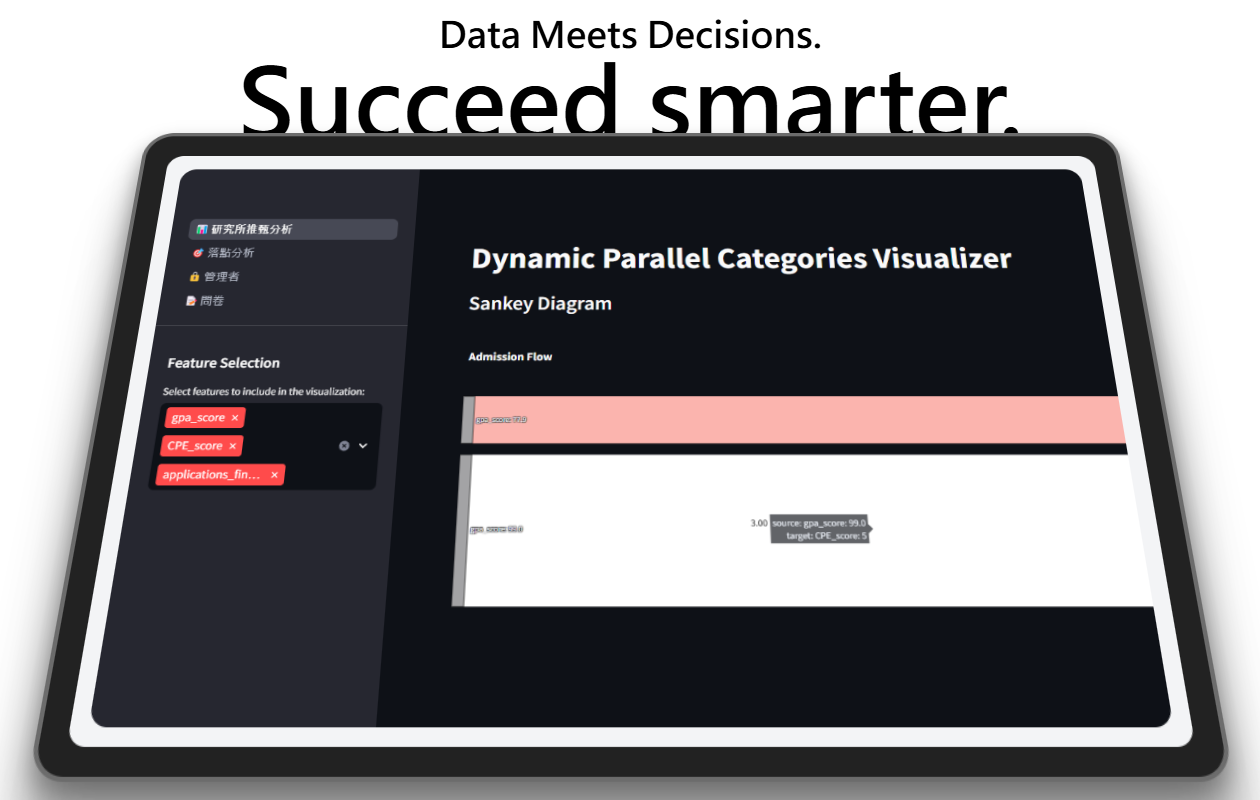
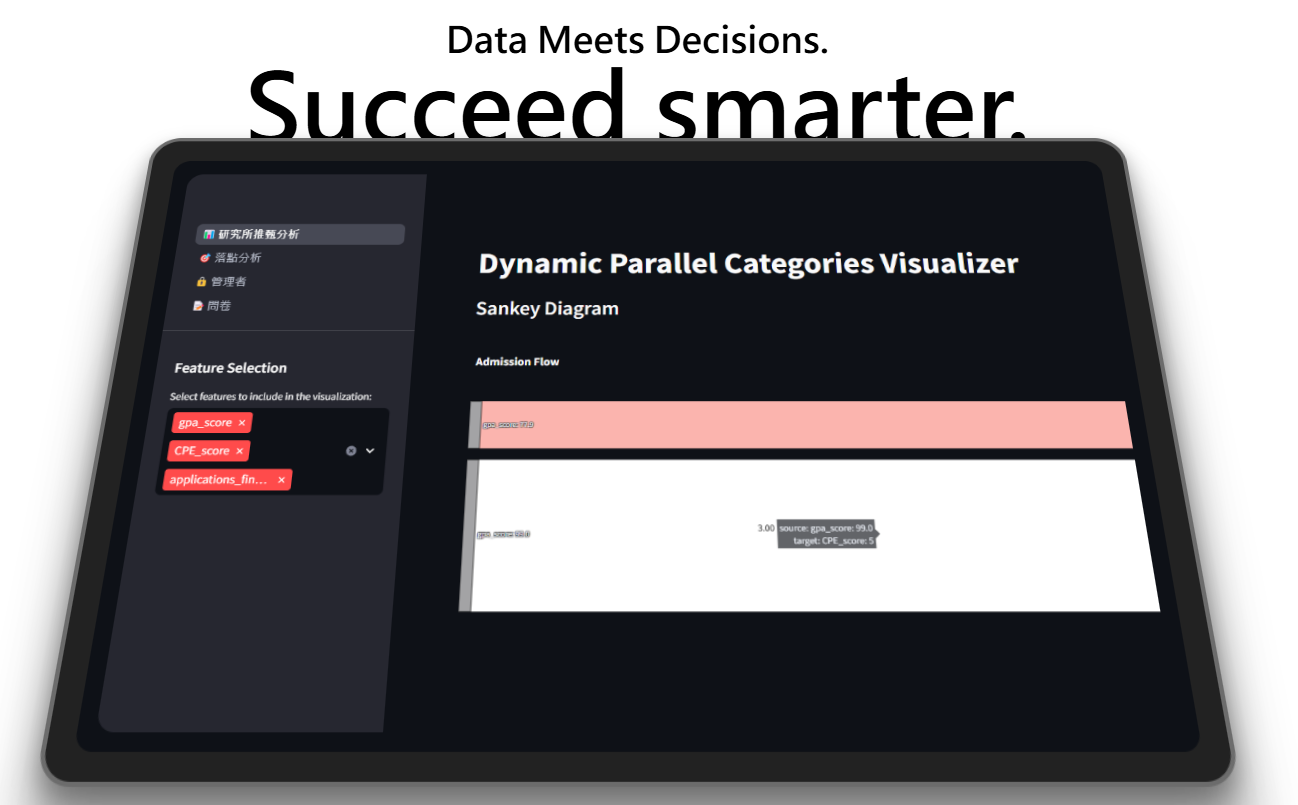
Update layout and container styles for improved aesthetics and consistency

diff --git a/gen/gen/components/ui/container-scroll-animation.tsx b/gen/gen/components/ui/container-scroll-animation.tsx
@@ -87,7 +87,7 @@ export const Card = ({
       }}
       className="max-w-5xl -mt-12 mx-auto h-[30rem] md:h-[40rem] w-full border-4 border-[#6C6C6C] p-2 md:p-6 bg-[#222222] rounded-[30px] shadow-2xl"
     >
-      <div className=" h-full w-full  overflow-hidden rounded-2xl bg-gray-100 dark:bg-zinc-900 md:rounded-2xl md:p-4 ">
+      <div className=" h-full w-full  overflow-hidden rounded-2xl bg-[#0e1117] md:rounded-2xl md:p-4 ">
         {children}
       </div>
     </motion.div>

diff --git a/gen/gen/app/layout.tsx b/gen/gen/app/layout.tsx
@@ -26,7 +26,7 @@ export default function RootLayout({
   return (
     <html lang="en">
       <body
-        className={`${geistSans.variable} ${geistMono.variable} antialiased`}
+        className={`${geistSans.variable} ${geistMono.variable} antialiased data`}
       >
         {children}
       </body>
